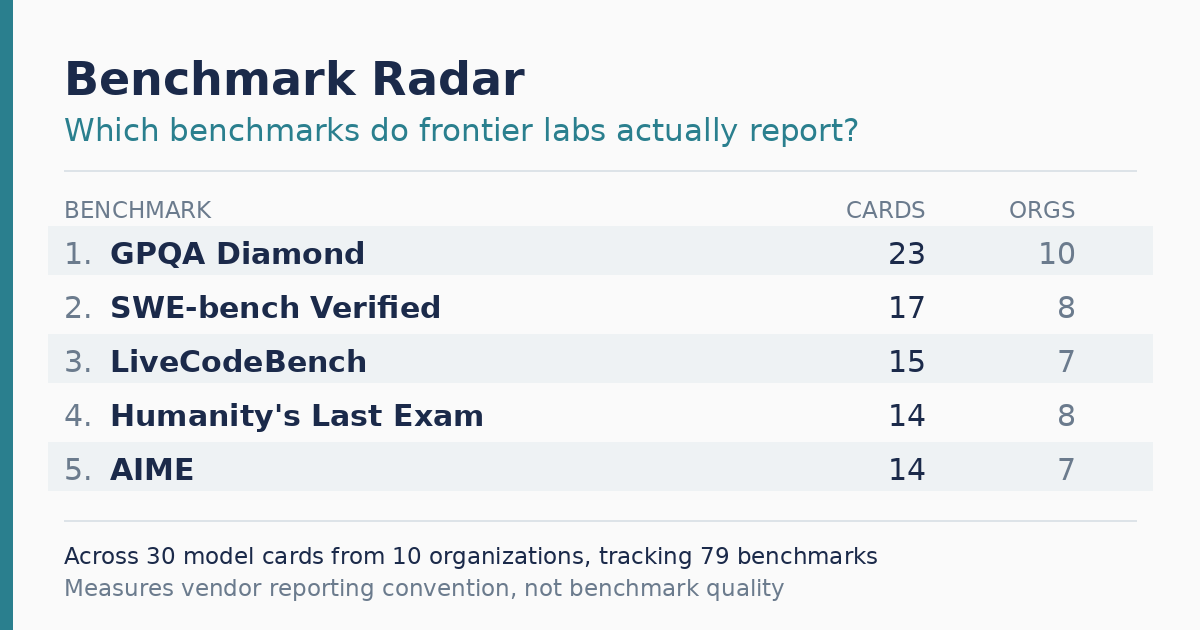
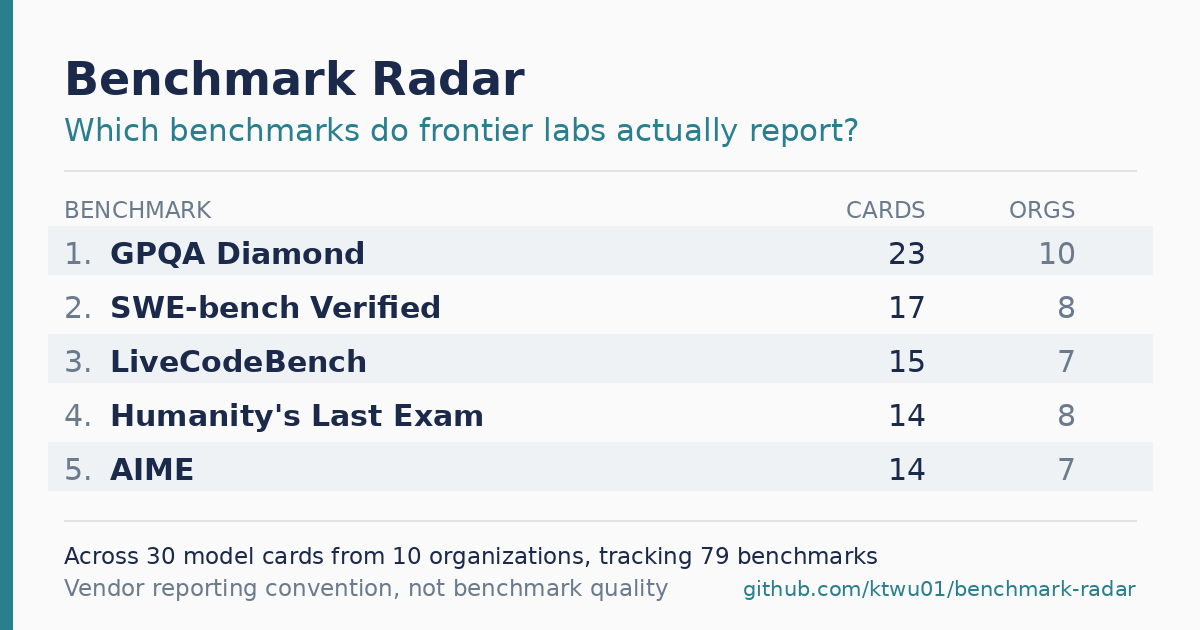
Attribute the share card to its repository
The card is built to be reposted, and a screenshot of a ranking with no
source on it is a claim nobody can check. A reader who meets this image
in a feed had no way to find what produced it.

The URL sits bottom right on the caveat's baseline, so an unfamiliar
reader meets the attribution and the disclaimer in one glance rather than
having the source read as a separate footer.

Fitting both on one line needed the caveat shortened to "Vendor
reporting convention, not benchmark quality": at the original wording the
two overlapped by 80px. Pillow neither wraps nor shrinks text, so that
collision would have rendered as overlapping glyphs in the published PNG
and nowhere else. A test measures the pair against the available width,
and fails at the previous wording.

Changed region(s): [[0.0617, 0.9048, 0.9558, 0.9651]]

diff --git a/scripts/generate_og_image.py b/scripts/generate_og_image.py
@@ -85,6 +85,10 @@ def render(leaderboard: dict, output: Path) -> Path:
     row_face = font(30)
     row_bold = font(30, bold=True)
     small = font(23)
+    # A step down from `small`: the URL is provenance, not a line of the
+    # finding, and the size difference is what buys it room on the caveat's
+    # line without either being truncated.
+    attribution = font(21)
 
     y = MARGIN - 12
     draw.text((MARGIN, y), "Benchmark Radar", font=title, fill=INK)
@@ -149,11 +153,27 @@ def render(leaderboard: dict, output: Path) -> Path:
     # The caveat travels on the card too. This image is the most widely seen
     # and least clicked-through representation of the ranking, so it is the
     # worst place to let a bare top-five read as a quality ordering.
+    #
+    # Phrased without a leading "Measures" so it clears the attribution to its
+    # right. The two are measured to fit on one line at these faces with ~75px
+    # between them; lengthening either, or raising `small`, will collide before
+    # it wraps, because Pillow does not wrap.
     draw.text(
         (MARGIN, y),
-        "Measures vendor reporting convention, not benchmark quality",
+        "Vendor reporting convention, not benchmark quality",
         font=small,
         fill=SLATE,
+    )
+    # The card is built to be reposted, and a screenshot of a ranking with no
+    # source is a claim nobody can check. Bottom right, sharing the caveat's
+    # baseline: an unfamiliar reader meets the attribution and the disclaimer
+    # in one glance, and the footer has no room for a third line.
+    draw.text(
+        (WIDTH - MARGIN, y + 2),
+        "github.com/ktwu01/benchmark-radar",
+        font=attribution,
+        fill=TEAL,
+        anchor="ra",
     )
 
     output.parent.mkdir(parents=True, exist_ok=True)

diff --git a/tests/test_site.py b/tests/test_site.py
@@ -1,3 +1,4 @@
+import sys
 from html.parser import HTMLParser
 from pathlib import Path
 from urllib.parse import urlsplit
@@ -553,3 +554,20 @@ def test_share_card_exists_at_the_declared_size():
         # at another size loses its bottom line, which is where the "not
         # benchmark quality" caveat sits.
         assert image.size == (1200, 630)
+
+
+def test_share_card_attributes_its_source_without_overlapping_the_caveat():
+    from PIL import Image, ImageDraw
+
+    sys.path.insert(0, "scripts")
+    from generate_og_image import MARGIN, WIDTH, font
+
+    # The card is built to be reposted, and a screenshot of a ranking with no
+    # source is a claim nobody can check. Pillow does not wrap or shrink text:
+    # if the caveat and the attribution stop fitting on one line they silently
+    # draw over each other, and the rendered PNG is the only place that shows.
+    draw = ImageDraw.Draw(Image.new("RGB", (WIDTH, 630)))
+    caveat = draw.textlength("Vendor reporting convention, not benchmark quality", font=font(23))
+    attribution = draw.textlength("github.com/ktwu01/benchmark-radar", font=font(21))
+
+    assert caveat + attribution < WIDTH - 2 * MARGIN
